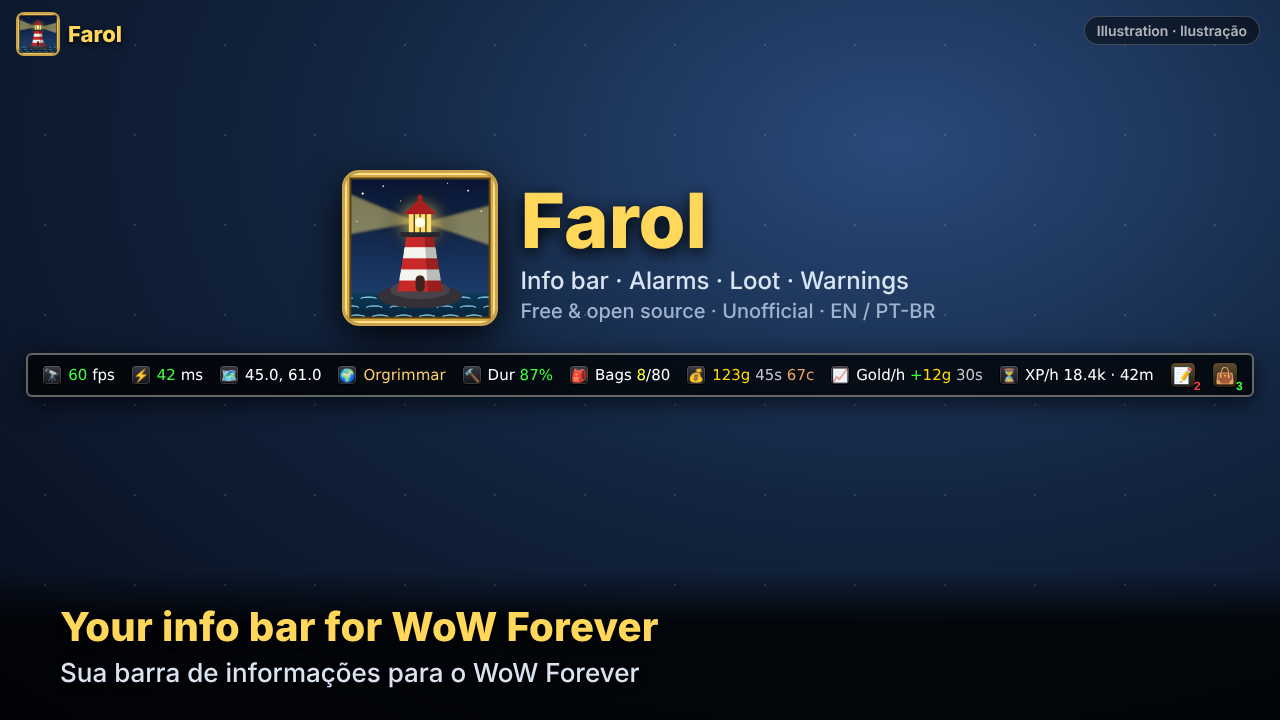
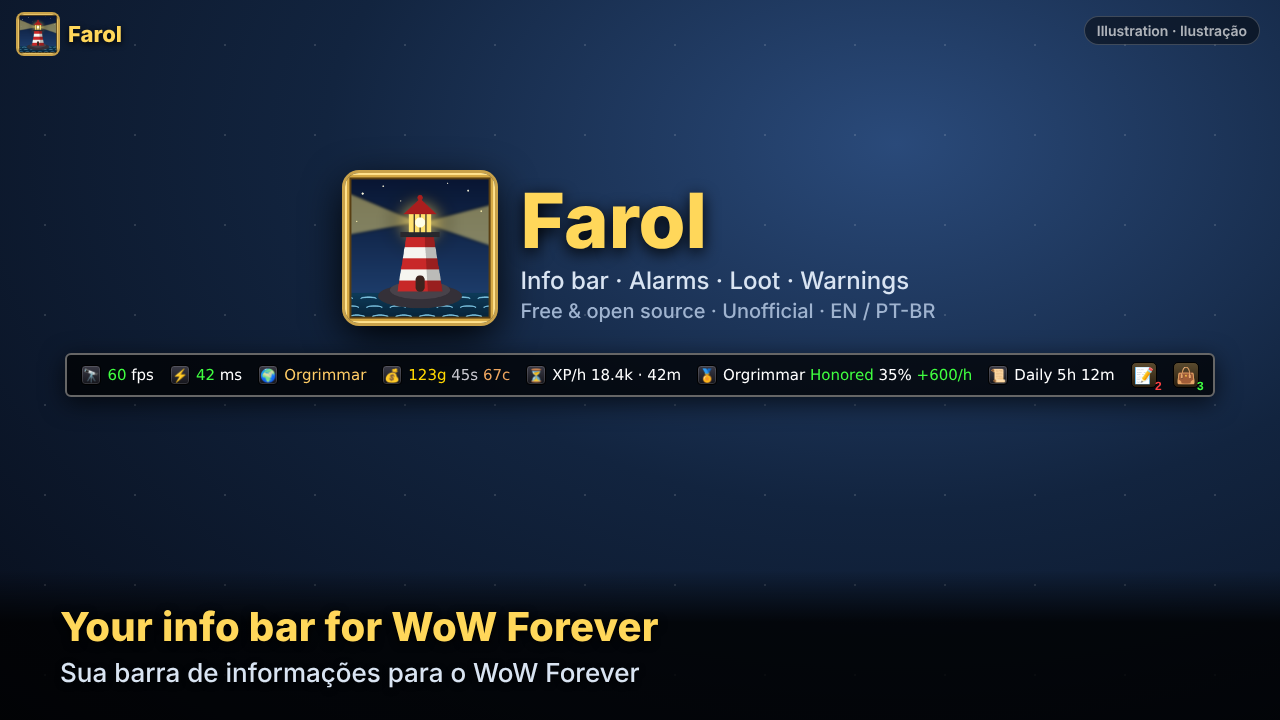
Update CurseForge illustrations for 19 items, reputation and resets
- 01: hero bar shows reputation and daily reset.
- 02: 19 items; aligned-columns layout with the resize grip; tooltip with reputation and reset.
- 03: Reputation and Resets checkboxes, Server time option, language buttons; order includes them.
- 07: warning history / loot button toggles.
- 08 (new): progress — XP, reputation and resets with the detailed tooltip.
- CLAUDE.md: which illustration to update for each kind of change.

Claude-Session: https://claude.ai/code/session_01BGNd8jLBZJw5iNs8DwdX47

Changed region(s): [[0.0, 0.4889, 1.0, 0.55]]

diff --git a/assets/curseforge/make_pages.py b/assets/curseforge/make_pages.py
@@ -59,6 +59,9 @@ BAR_ITEMS = [
     ("📈", 'Gold/h <span class="g">+</span><span class="gold">12g</span> <span class="silver">30s</span>'),
     ("⏳", 'XP/h 18.4k · 42m'),
 ]
+REP_ITEM = ("🏅", 'Orgrimmar <span class="g">Honored</span> 35% <span class="g">+600/h</span>')
+RESET_ITEM = ("📜", 'Daily 5h 12m · Weekly 2d 4h')
+HERO_ITEMS = BAR_ITEMS[:2] + [BAR_ITEMS[3], BAR_ITEMS[6], BAR_ITEMS[8], REP_ITEM, ("📜", 'Daily 5h 12m')]
 def hbar(items=BAR_ITEMS, extra_style=""):
     return f'<div class="bar" style="{extra_style}">' + "".join(item(e,h) for e,h in items) + \
         '<span class="qb">📝<span class="badge r">2</span></span><span class="qb">👜<span class="badge g">3</span></span></div>'
@@ -72,42 +75,46 @@ page("01_farol", f"""
   <div style="font:500 24px 'Inter';color:#d9e4f2">Info bar · Alarms · Loot · Warnings</div>
   <div style="font:500 20px 'Inter';color:#9fb3cf;margin-top:4px">Free & open source · Unofficial · EN / PT-BR</div></div>
  </div>
- {hbar()}
+ {hbar(HERO_ITEMS)}
 </div>""", "Your info bar for WoW Forever", "Sua barra de informações para o WoW Forever")
 
-# 2. Bar: horizontal + vertical + tooltip
-vitems = [("🔭",'<span class="g">60</span> fps'),("⚡",'<span class="y">172</span> ms'),("🧠",'Mem <span class="y">235 MB</span>'),
+# 2. Bar: aligned columns (flexible layout) + tooltip
+gitems = [("🔭",'<span class="g">60</span> fps'),("⚡",'<span class="y">172</span> ms'),("🧠",'Mem <span class="y">235 MB</span>'),
           ("🗺",'58.5, 54.1'),("🌍",'<span class="zone">Orgrimmar</span>'),("👟",'Speed 100%'),("🔨",'Dur <span class="g">77%</span>'),
           ("🎒",'Bags <span class="g">13</span>/38'),("💰",'<span class="gold">0g</span> <span class="silver">97s</span> <span class="copper">23c</span>'),
           ("🪙",'Session <span class="g">+</span><span class="silver">5s</span> <span class="copper">34c</span>'),
           ("📈",'Gold/h <span class="g">+</span><span class="gold">1g</span> <span class="silver">33s</span>'),
-          ("📖",'XP 46% <span class="blue">+0%</span>'),("⏰",'18:49'),("👥",'Friends 4')]
-vbar = '<div class="vbar">' + "".join(item(e,h) for e,h in vitems) + '</div>'
+          ("📖",'XP 46% <span class="blue">+0%</span>'),("⏳",'XP/h 18.4k · 42m'),REP_ITEM,("⏰",'18:49'),
+          RESET_ITEM,("⌛",'Played 1h 02m'),("👥",'Friends 4'),("🛡",'Guild 12')]
+grid = ('<div class="vbar" style="display:grid;grid-template-columns:repeat(3,auto);column-gap:18px;row-gap:6px;position:relative;padding-bottom:16px;font-size:13px;white-space:nowrap">'
+        + "".join(item(e,h) for e,h in gitems)
+        + '<span style="position:absolute;right:4px;bottom:0;color:#ccc;font-size:14px">◢</span></div>')
 tip = """<div class="tip" style="width:330px"><div style="color:#33ccff;font-weight:bold;margin-bottom:4px">Farol</div>
-<div class="row"><span class="k">FPS</span><span>60</span></div>
 <div class="row"><span class="k">Latency</span><span>home 40 ms / world 60 ms</span></div>
-<div class="row"><span class="k">Zone</span><span>Orgrimmar</span></div>
 <div class="row"><span class="k">Durability (lowest)</span><span class="y">31%</span></div>
 <div class="row"><span>&nbsp; [Helm of Valor]</span><span class="y">31%</span></div>
 <div class="row"><span class="k">XP per hour</span><span>18.4k</span></div>
-<div class="row"><span class="k">Next level in</span><span>42m</span></div>
+<div class="row"><span class="k">Reputation</span><span>Orgrimmar</span></div>
+<div class="row"><span class="k">Daily reset in</span><span>5h 12m</span></div>
 <div class="row"><span class="k">Server time</span><span>21:05</span></div>
 <div class="dim" style="margin-top:6px">Right-click: options.</div></div>"""
 page("02_bar", f"""
-<div style="display:flex;flex-direction:column;gap:22px;align-items:flex-start">{hbar(BAR_ITEMS[:7])}{tip}</div>
-{vbar}""", "17 items with icons — horizontal or vertical", "17 informações com ícones — na horizontal ou vertical, com tooltip detalhado")
+<div style="display:flex;flex-direction:column;gap:22px;align-items:flex-start">{hbar(BAR_ITEMS[:4])}{tip}</div>
+<div style="display:flex;flex-direction:column;gap:8px;align-items:flex-start"><div class="dim">Drag the corner ◢ — one line, one column or columns</div>{grid}</div>""",
+     "19 items with icons — one line, one column or columns", "19 informações com ícones — em linha, coluna ou colunas alinhadas, com tooltip")
 
 # 3. Options menu + order
-names = ["FPS","Latency","Memory","Coordinates","Zone","Speed","Durability","Bags","Gold","Session gold","Gold per hour","Experience (XP)","XP per hour","Clock","Session time","Friends online","Guild online"]
-on = {0,1,3,4,6,7,8,10,12}
-half = 9
+names = ["FPS","Latency","Memory","Coordinates","Zone","Speed","Durability","Bags","Gold","Session gold","Gold per hour","Experience (XP)","XP per hour","Reputation","Clock","Resets (daily/weekly)","Session time","Friends online","Guild online"]
+on = {0,1,3,4,6,7,8,10,12,13,15}
+half = 10
 col = lambda rng: "".join(f'<div class="ck"><span class="box">{"✓" if i in on else ""}</span>{names[i]}</div>' for i in rng)
-menu = f"""<div class="win" style="width:440px"><div class="x">×</div><div class="t">Farol</div>
+menu = f"""<div class="win" style="width:500px;padding-top:12px;padding-bottom:14px"><div class="x">×</div><div class="t">Farol</div>
 <div class="dim" style="font-size:13px">Tick what you want to see on the bar.</div>
-<div class="h">Bar items</div><div style="display:flex;gap:30px"><div>{col(range(0,half))}</div><div>{col(range(half,17))}</div></div>
-<div class="h">General</div><div style="display:flex;gap:30px"><div class="ck"><span class="box">✓</span>Show panel</div><div class="ck"><span class="box"></span>Lock position</div></div>
+<div class="h">Bar items</div><div style="display:flex;gap:30px"><div>{col(range(0,half))}</div><div>{col(range(half,19))}</div></div>
+<div class="h">General</div><div style="display:flex;gap:22px"><div class="ck"><span class="box">✓</span>Show panel</div><div class="ck"><span class="box"></span>Lock position</div><div class="ck"><span class="box">✓</span>Server time</div></div>
+<div style="display:flex;gap:8px;align-items:center;margin-top:6px"><span class="k" style="font-size:14px">Language:</span><span class="btn" style="padding:2px 10px">Português</span><span class="btn hl" style="padding:2px 10px">English</span></div>
 <div style="display:flex;gap:8px;margin-top:10px;flex-wrap:wrap"><span class="btn">Alarms...</span><span class="btn">Loot...</span><span class="btn">Warnings...</span><span class="btn">Appearance...</span><span class="btn hl">Order...</span></div></div>"""
-order_names = [("🌍","Zone"),("🔭","FPS"),("⚡","Latency"),("💰","Gold"),("📈","Gold per hour"),("🔨","Durability"),("🎒","Bags"),("⏰","Clock (hidden)")]
+order_names = [("🌍","Zone"),("🔭","FPS"),("⚡","Latency"),("💰","Gold"),("🏅","Reputation"),("📜","Resets (daily/weekly)"),("🔨","Durability"),("🎒","Bags"),("⏰","Clock (hidden)")]
 order = '<div class="win" style="width:330px"><div class="x">×</div><div class="t">Bar order</div>' + "".join(
     f'<div class="ck" style="justify-content:space-between"><span><span class="dim" style="display:inline-block;width:22px;text-align:right">{i+1}.</span> {ic(e)} <span class="{"dim" if "hidden" in n else ""}">{n}</span></span><span>▲ ▼</span></div>'
     for i,(e,n) in enumerate(order_names)) + '<div style="text-align:right;margin-top:10px"><span class="btn">Restore default order</span></div></div>'
@@ -164,9 +171,28 @@ app = f"""<div class="win" style="width:470px"><div class="x">×</div><div class
 <div class="ck"><span class="box">✓</span>Show icons on the bar</div>
 <div class="ck"><span class="box">✓</span>Show border</div><div class="ck"><span class="box">✓</span>Hide in combat</div>
 <div class="ck"><span class="box"></span>Hide in dungeons, raids, arenas and battlegrounds</div>
+<div class="ck"><span class="box">✓</span>Show the warning history button 📝</div>
+<div class="ck"><span class="box">✓</span>Show the loot button 👜</div>
 <div style="text-align:right;margin-top:8px"><span class="btn">Restore defaults</span></div></div>"""
 small = hbar(BAR_ITEMS[:4], "font-size:12px;transform:scale(.9)")
 big = hbar(BAR_ITEMS[:4], "font-size:19px;background:#0004;border-color:#0000")
 page("07_appearance", f'{app}<div style="display:flex;flex-direction:column;gap:30px;align-items:flex-start"><div class="dim">Small · compact</div>{small}<div class="dim">Large · transparent</div>{big}</div>',
      "Make it yours: shape, size, background, hide in combat", "Do seu jeito: formato livre, tamanho do texto e ícones, fundo, esconder em combate")
+# 8. Progress: XP, reputation, resets
+pbar = hbar([("📖",'XP 46% <span class="blue">+12%</span>'),("⏳",'XP/h 18.4k · 42m'),REP_ITEM,RESET_ITEM])
+ptip = """<div class="tip" style="width:470px"><div style="color:#33ccff;font-weight:bold;margin-bottom:4px">Farol</div>
+<div class="row"><span class="k">Experience</span><span>11,040 / 24,000 (46%)</span></div>
+<div class="row"><span class="k">XP per hour</span><span>18.4k</span></div>
+<div class="row"><span class="k">Next level in</span><span>42m</span></div>
+<div style="height:6px"></div>
+<div class="row"><span class="k">Reputation</span><span>Orgrimmar</span></div>
+<div class="row"><span class="k">Standing</span><span class="g">Honored</span></div>
+<div class="row"><span class="k">Progress</span><span>4.2k / 12.0k (35%)</span></div>
+<div class="row"><span class="k">Reputation per hour</span><span>+600</span></div>
+<div class="row"><span class="k">Next standing in</span><span>13h 00m</span></div>
+<div style="height:6px"></div>
+<div class="row"><span class="k">Daily reset in</span><span>5h 12m (02:17 local · 05:17 server)</span></div>
+<div class="row"><span class="k">Weekly reset in</span><span>2d 4h (Wed 01:05 local · 04:05 server)</span></div></div>"""
+page("08_progress", f'<div style="display:flex;flex-direction:column;gap:22px;align-items:center">{pbar}{ptip}</div>',
+     "Track your progress: XP, reputation and resets", "Acompanhe seu progresso: XP, reputação e contagem até os resets")
 print("pages ok")

diff --git a/CLAUDE.md b/CLAUDE.md
@@ -110,4 +110,14 @@ lua5.1 tests/run.lua        # ~100 testes; deve terminar com "0 failed"
 
 `assets/curseforge/`: ilustrações 1280×720 com legenda EN/PT e selo "Illustration · Ilustração" (não são prints do
 jogo). Para regenerar: `python3 assets/curseforge/make_pages.py` e `node assets/curseforge/shoot.js` (Playwright).
-Ao mudar uma janela do addon, atualize a ilustração correspondente.
+Ao mudar uma janela do addon, atualize a ilustração correspondente:
+
+| Mudança | Imagens |
+|---|---|
+| Item novo na barra / no tooltip | 02 (contagem de itens, grade, tooltip), 03 (caixinhas e ordem); 08 se for de progresso; 01 se for destaque |
+| Opção nova no menu (Geral, idioma, botões) | 03 |
+| Alarmes | 04 · Janela de saques: 05 · Avisos / histórico: 06 |
+| Aparência (escala, fundo, formato, botões rápidos) | 07 (e 02 se mudar o formato da barra) |
+
+As imagens 04–06 saem idênticas quando não mudam (o gerador é determinístico): suba no CurseForge só as que mudaram
+e apague lá as versões antigas.

diff --git a/assets/curseforge/README.md b/assets/curseforge/README.md
@@ -10,12 +10,13 @@ fiéis das janelas do addon, não prints do jogo; por isso cada imagem tem o sel
 | File | Caption |
 |---|---|
 | `farol-01_farol.png` | Your info bar for WoW Forever |
-| `farol-02_bar.png` | 17 items with icons — horizontal or vertical |
+| `farol-02_bar.png` | 19 items with icons — one line, one column or columns |
 | `farol-03_menu_order.png` | Tick what you want — and choose the order |
 | `farol-04_alarms.png` | Clock alarms with snooze — local or server time |
 | `farol-05_loot.png` | Recent loot window with quality filter |
 | `farol-06_warnings.png` | Warnings: durability, bags, talents, spell ranks |
 | `farol-07_appearance.png` | Make it yours: shape, size, background, hide in combat |
+| `farol-08_progress.png` | Track your progress: XP, reputation and resets |
 
 ## Regenerate / Gerar de novo
 
